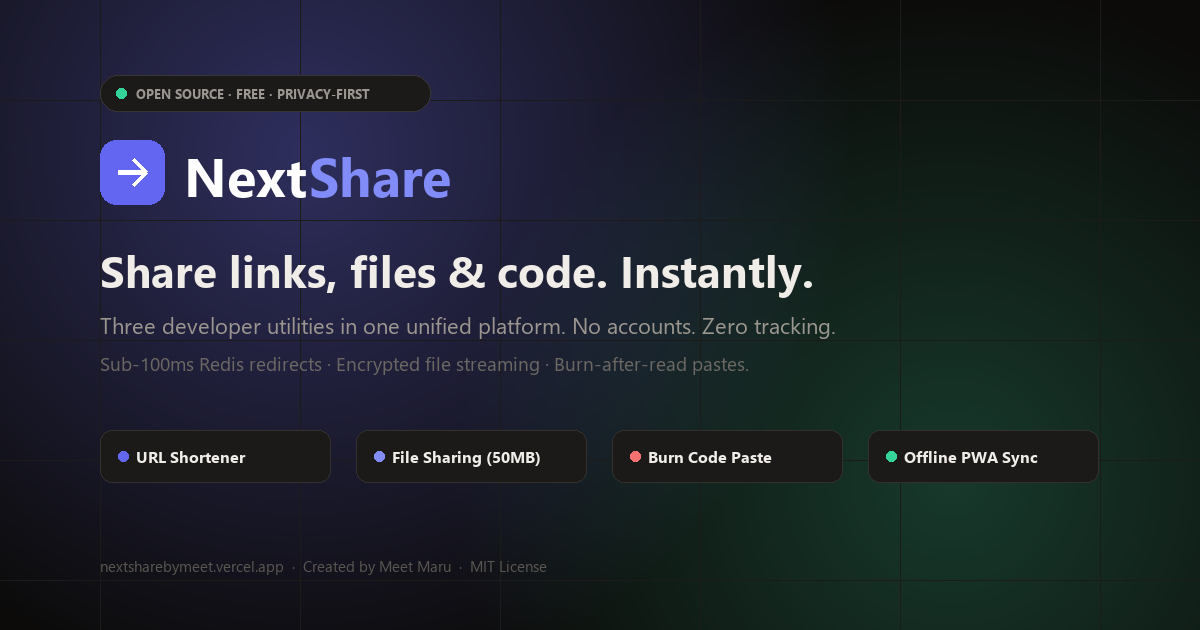
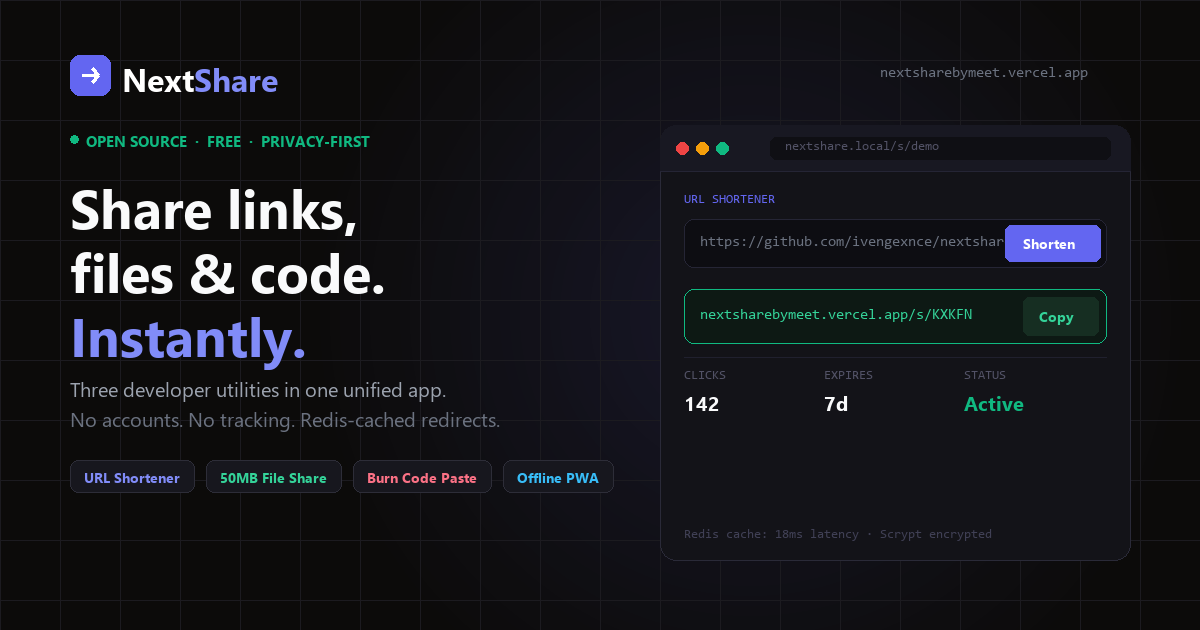
feat(og): generate pixel-perfect landing page mockup OG image and dual PNG/JPG social cards

diff --git a/apps/web/index.html b/apps/web/index.html
@@ -18,8 +18,8 @@
     <meta property="og:site_name" content="NextShare" />
     <meta property="og:title" content="NextShare — Free URL Shortener, Secure File Sharing &amp; Code Pastebin" />
     <meta property="og:description" content="Share links, files, and code in seconds. Open source, zero tracking, sub-100ms Redis caching, and offline-capable PWA." />
-    <meta property="og:image" content="https://nextsharebymeet.vercel.app/og-image.png?v=2" />
-    <meta property="og:image:secure_url" content="https://nextsharebymeet.vercel.app/og-image.png?v=2" />
+    <meta property="og:image" content="https://nextsharebymeet.vercel.app/og-image.png?v=3" />
+    <meta property="og:image:secure_url" content="https://nextsharebymeet.vercel.app/og-image.png?v=3" />
     <meta property="og:image:type" content="image/png" />
     <meta property="og:image:width" content="1200" />
     <meta property="og:image:height" content="630" />
@@ -33,15 +33,15 @@
     <meta name="twitter:url" content="https://nextsharebymeet.vercel.app/" />
     <meta name="twitter:title" content="NextShare — Free URL Shortener, Secure File Sharing &amp; Code Pastebin" />
     <meta name="twitter:description" content="Share links, files, and code in seconds. Open source, zero tracking, sub-100ms Redis caching." />
-    <meta name="twitter:image" content="https://nextsharebymeet.vercel.app/og-image.png?v=2" />
-    <meta name="twitter:image:src" content="https://nextsharebymeet.vercel.app/og-image.png?v=2" />
+    <meta name="twitter:image" content="https://nextsharebymeet.vercel.app/og-image.png?v=3" />
+    <meta name="twitter:image:src" content="https://nextsharebymeet.vercel.app/og-image.png?v=3" />
     <meta name="twitter:image:alt" content="NextShare Developer Platform Preview" />
 
     <!-- Schema.org / Discord / Legacy -->
     <meta itemprop="name" content="NextShare" />
     <meta itemprop="description" content="Free URL shortener, secure file sharing, and code pastebin." />
-    <meta itemprop="image" content="https://nextsharebymeet.vercel.app/og-image.png?v=2" />
-    <link rel="image_src" href="https://nextsharebymeet.vercel.app/og-image.png?v=2" />
+    <meta itemprop="image" content="https://nextsharebymeet.vercel.app/og-image.png?v=3" />
+    <link rel="image_src" href="https://nextsharebymeet.vercel.app/og-image.png?v=3" />
 
     <script>
         (function() {

diff --git a/apps/web/app.html b/apps/web/app.html
@@ -17,8 +17,8 @@
     <meta property="og:site_name" content="NextShare" />
     <meta property="og:title" content="NextShare App — URL Shortener, File Sharing &amp; Code Pastebin" />
     <meta property="og:description" content="Fast, private developer utilities. Shorten links, upload files with download caps, and share burn-after-read code snippets." />
-    <meta property="og:image" content="https://nextsharebymeet.vercel.app/og-image.png?v=2" />
-    <meta property="og:image:secure_url" content="https://nextsharebymeet.vercel.app/og-image.png?v=2" />
+    <meta property="og:image" content="https://nextsharebymeet.vercel.app/og-image.png?v=3" />
+    <meta property="og:image:secure_url" content="https://nextsharebymeet.vercel.app/og-image.png?v=3" />
     <meta property="og:image:type" content="image/png" />
     <meta property="og:image:width" content="1200" />
     <meta property="og:image:height" content="630" />
@@ -32,13 +32,13 @@
     <meta name="twitter:url" content="https://nextsharebymeet.vercel.app/app" />
     <meta name="twitter:title" content="NextShare App — URL Shortener, File Sharing &amp; Code Pastebin" />
     <meta name="twitter:description" content="Fast, private developer utilities. Shorten links, upload files, and share burn-after-read code pastes." />
-    <meta name="twitter:image" content="https://nextsharebymeet.vercel.app/og-image.png?v=2" />
-    <meta name="twitter:image:src" content="https://nextsharebymeet.vercel.app/og-image.png?v=2" />
+    <meta name="twitter:image" content="https://nextsharebymeet.vercel.app/og-image.png?v=3" />
+    <meta name="twitter:image:src" content="https://nextsharebymeet.vercel.app/og-image.png?v=3" />
     <meta name="twitter:image:alt" content="NextShare Developer Platform Preview" />
 
     <!-- Schema.org / Discord / Legacy -->
-    <meta itemprop="image" content="https://nextsharebymeet.vercel.app/og-image.png?v=2" />
-    <link rel="image_src" href="https://nextsharebymeet.vercel.app/og-image.png?v=2" />
+    <meta itemprop="image" content="https://nextsharebymeet.vercel.app/og-image.png?v=3" />
+    <link rel="image_src" href="https://nextsharebymeet.vercel.app/og-image.png?v=3" />
 
     <!-- Theme & Icons -->
     <meta name="theme-color" content="#0C0B0A" />
